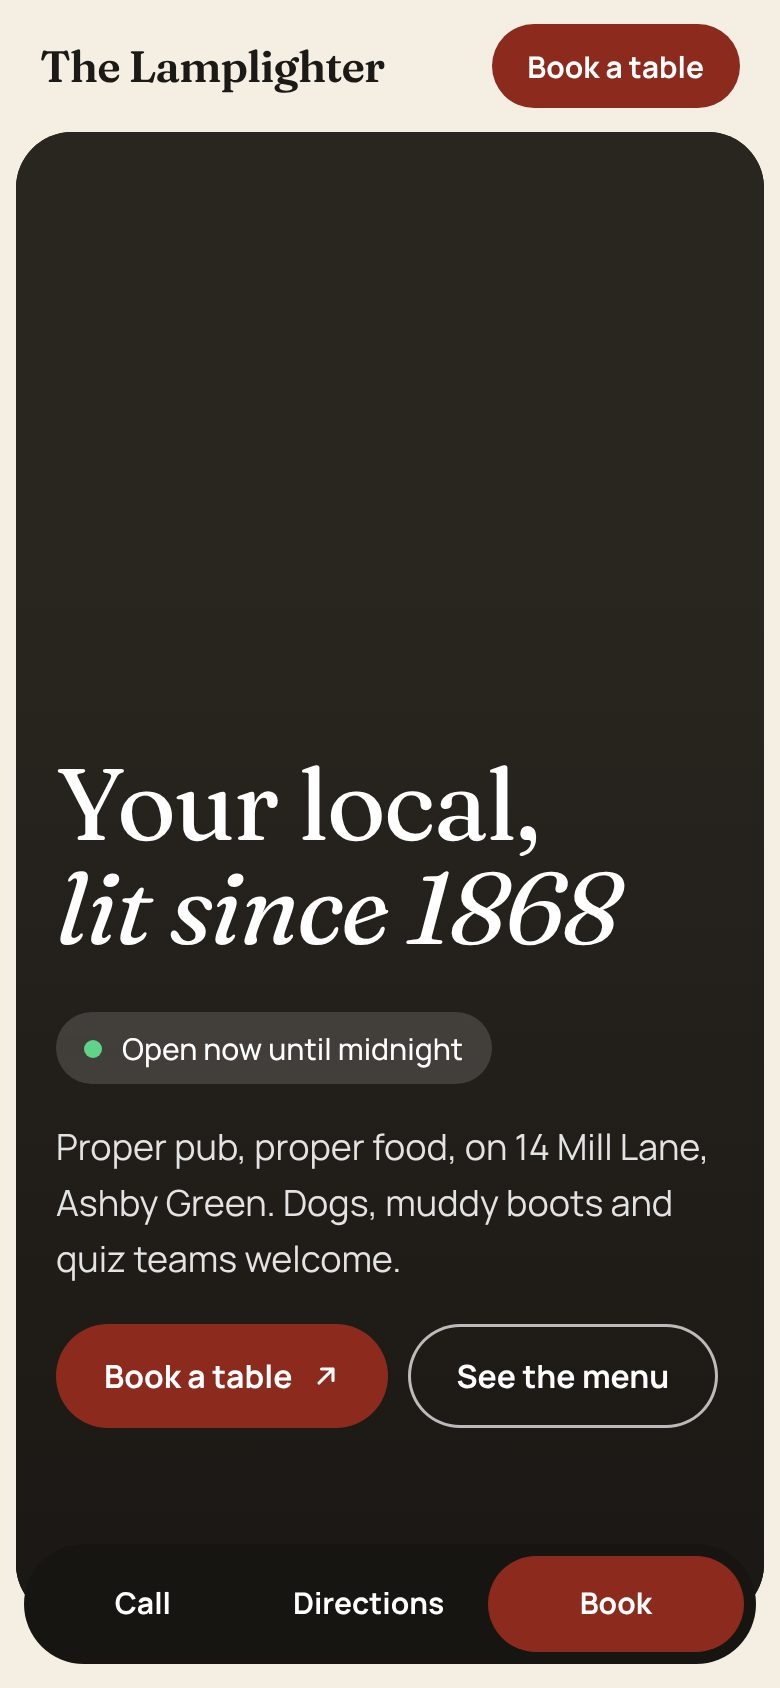
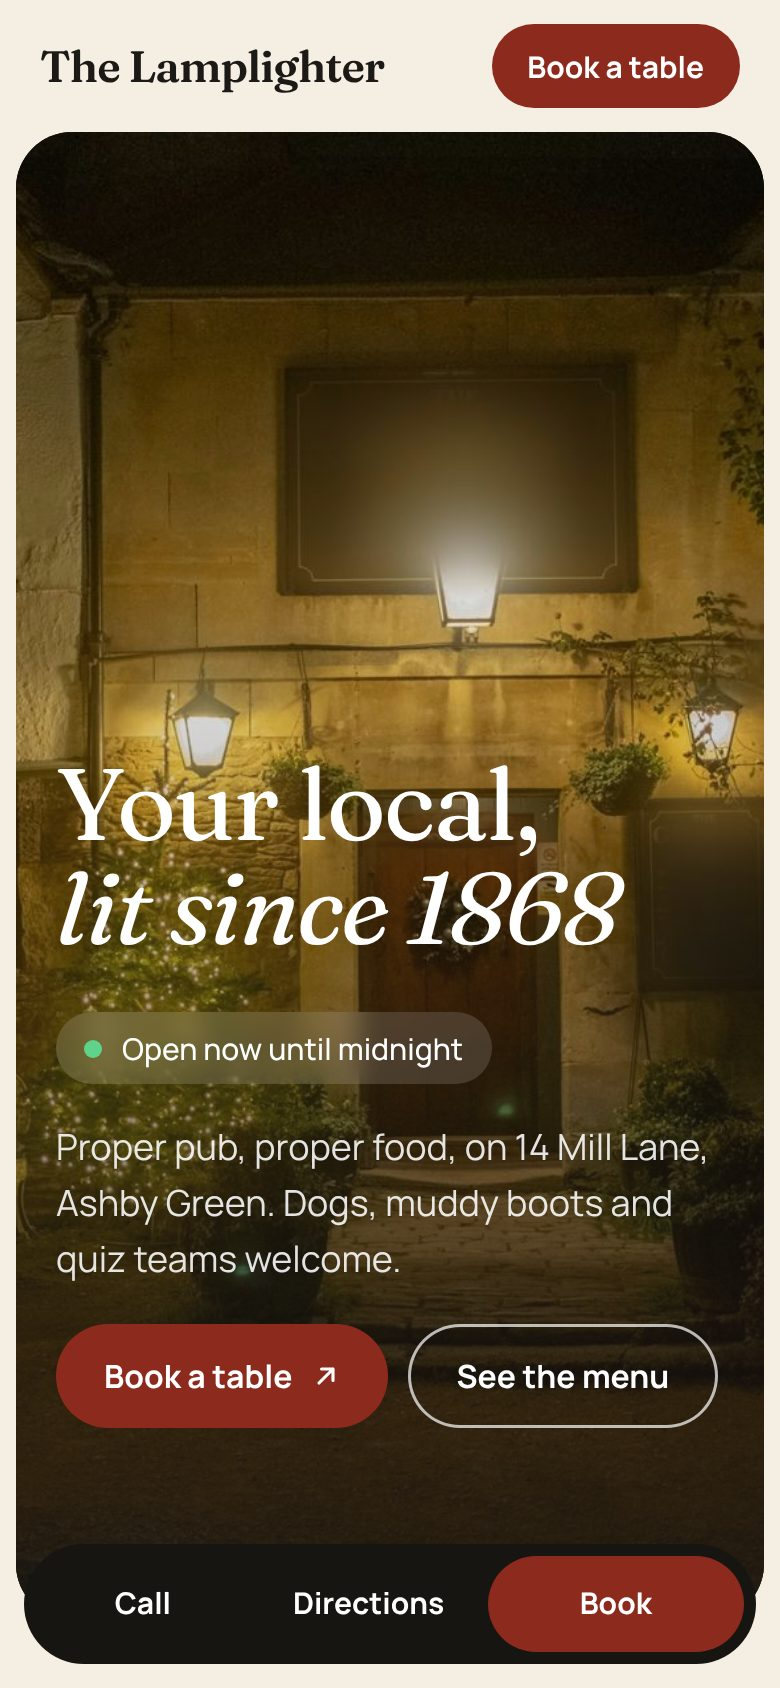
Add photos to The Lamplighter concept
Fills all seven photo slots with Russell's photos: the pub at night, a
busy bar, live music, Sunday roast, a pint outside, a laid table and the
taps. Real pub names on signs are softly blurred so nothing reads as
another pub. Alt text matches each photo. Retakes the Lamplighter
screenshots used as work on the agency homepage.

Claude-Session: https://claude.ai/code/session_01PbiwW15H8PvHbtVAYvKjVC

diff --git a/lib/photos.ts b/lib/photos.ts
@@ -14,39 +14,46 @@ export type PhotoSlot = {
 
 export const PHOTOS = {
   lpHero: {
-    alt: 'A village pub at dusk, warm light in the windows',
+    alt: 'A village pub at night, warm light in the windows and a Christmas tree by the door',
     query: 'english village pub exterior dusk',
     tone: '#2a2620',
+    src: '/photos/lp-hero.jpg',
   },
   lpQuiz: {
-    alt: 'Friends round a pub table with quiz sheets and pints',
+    alt: 'A busy pub bar in the evening, people on stools around high tables',
     query: 'pub quiz night table',
     tone: '#3b2f25',
+    src: '/photos/lp-quiz.jpg',
   },
   lpMusic: {
-    alt: 'An acoustic guitarist playing in the corner of a pub',
+    alt: 'A guitarist and banjo player performing to a packed pub',
     query: 'acoustic musician pub',
     tone: '#2b2430',
+    src: '/photos/lp-music.jpg',
   },
   lpRoast: {
-    alt: 'A Sunday roast with Yorkshire puddings and gravy',
+    alt: 'A Sunday roast with beef, a Yorkshire pudding, carrots and greens',
     query: 'sunday roast dinner yorkshire pudding',
     tone: '#4a3a28',
+    src: '/photos/lp-roast.jpg',
   },
   lpGarden: {
-    alt: 'A pub beer garden with wooden benches in the sun and a dog under a table',
+    alt: 'A cold pint on a wooden table outside in the sun',
     query: 'pub beer garden dog',
     tone: '#3d4a2c',
+    src: '/photos/lp-garden.jpg',
   },
   lpBar: {
-    alt: 'Hand pumps on a wooden pub bar',
+    alt: 'A pint being poured from a row of taps at the bar',
     query: 'pub bar hand pumps',
     tone: '#3a2a1c',
+    src: '/photos/lp-bar.jpg',
   },
   lpRoom: {
-    alt: 'A private dining room laid for a party',
+    alt: 'A table laid with wine and a plated dinner in the afternoon sun',
     query: 'pub function room dining table',
     tone: '#33302a',
+    src: '/photos/lp-room.jpg',
   },
 } satisfies Record<string, PhotoSlot>;
 

diff --git a/app/concepts/the-lamplighter/lamplighter.css b/app/concepts/the-lamplighter/lamplighter.css
@@ -613,3 +613,8 @@
     display: none;
   }
 }
+
+/* Keep the door and the tree in frame when the hero is cropped tall. */
+.lp-hero__media .photo {
+  object-position: 52% 78%;
+}
